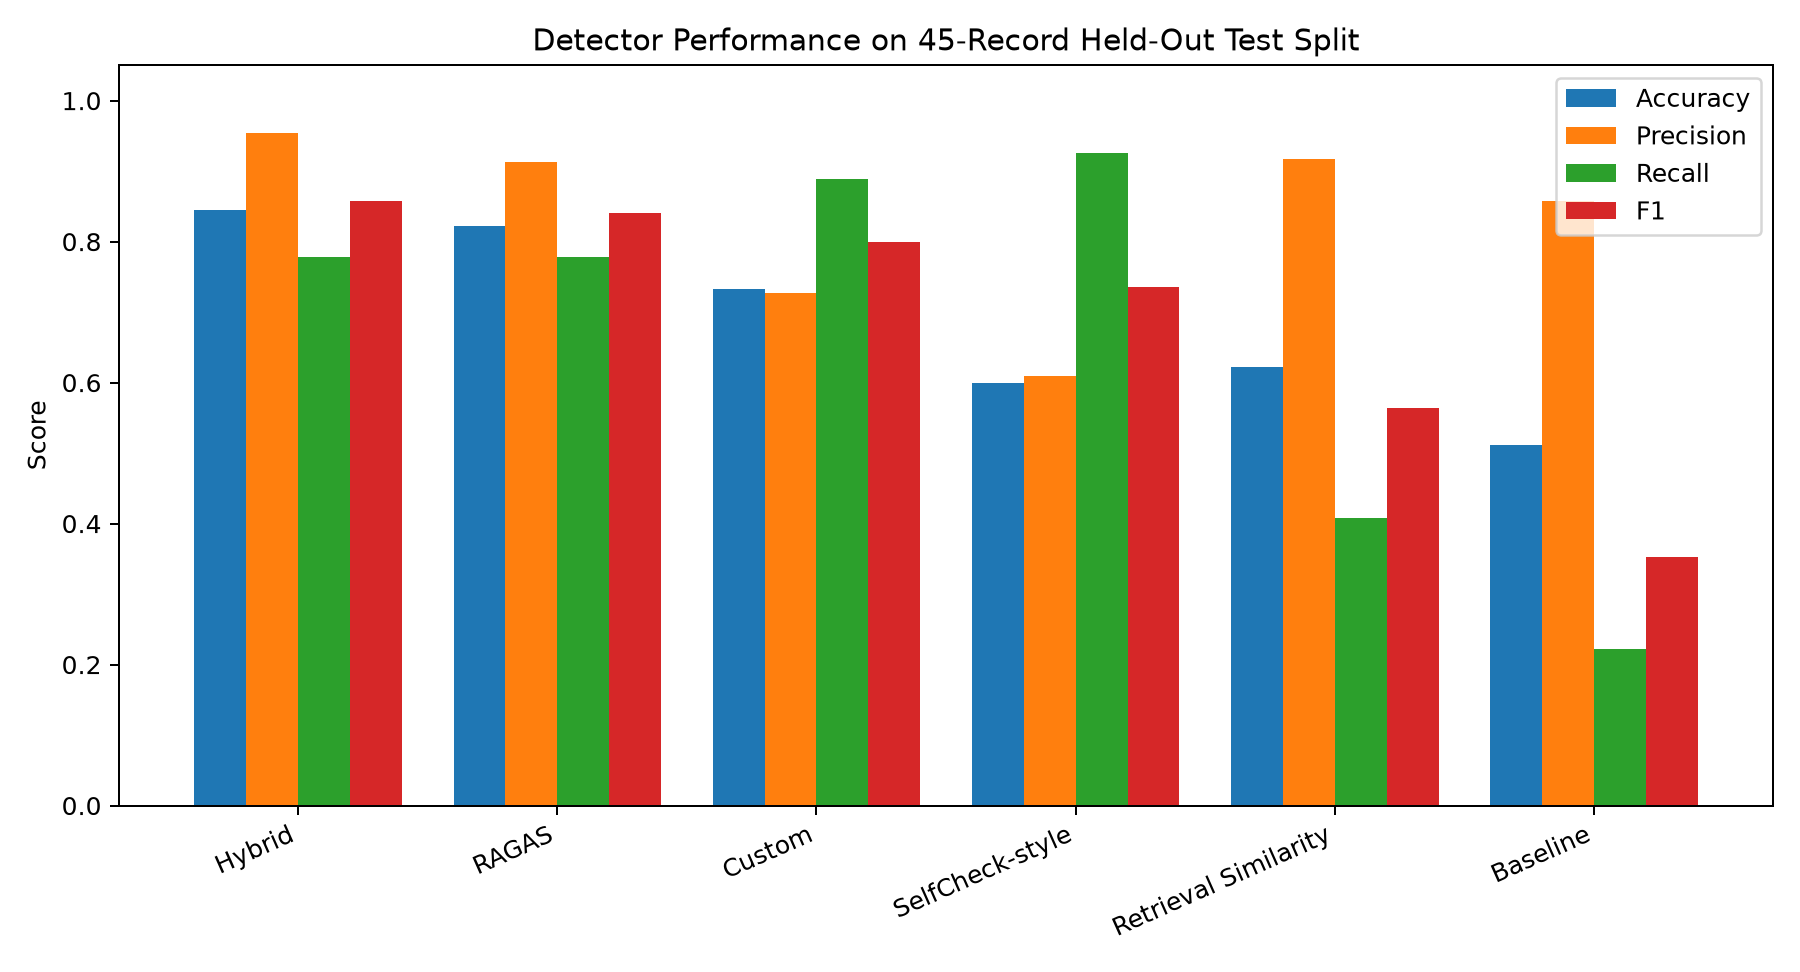
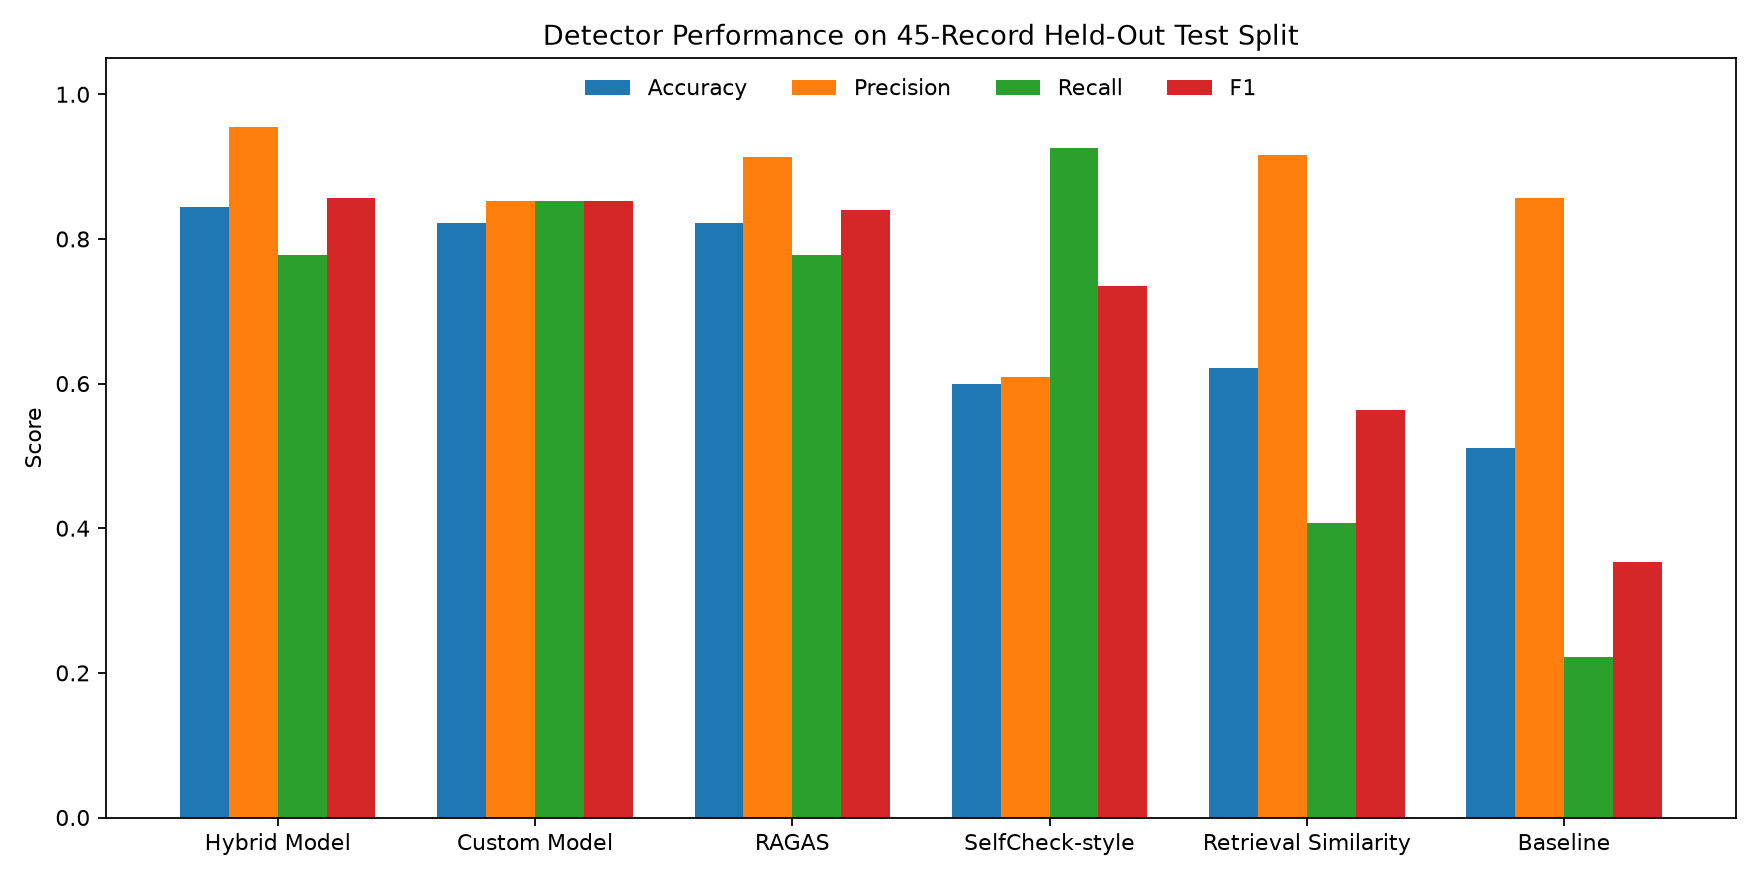
new changes

diff --git a/notebooks/new_300_question_set/300_question_from_each/code/pipeline.py b/notebooks/new_300_question_set/300_question_from_each/code/pipeline.py
@@ -68,6 +68,7 @@ CUSTOM_SUMMARY_PATH = REPORT_DIR / "custom_training_summary.json"
 HYBRID_SUMMARY_PATH = REPORT_DIR / "hybrid_training_summary.json"
 METHOD_METRICS_PATH = REPORT_DIR / "method_metrics.csv"
 METHOD_SUMMARY_PATH = REPORT_DIR / "method_metrics.json"
+HELDOUT_PERFORMANCE_PATH = PLOT_DIR / "heldout_performance_comparison.png"
 STATISTICS_PATH = REPORT_DIR / "statistical_analysis.json"
 ABLATION_CSV_PATH = ABLATION_DIR / "ablation_study.csv"
 ABLATION_JSON_PATH = ABLATION_DIR / "ablation_study.json"
@@ -435,6 +436,24 @@ def plot_performance_bar(metrics_df: pd.DataFrame, output_path: Path) -> None:
     plt.tight_layout()
     plt.savefig(output_path, dpi=160)
     plt.close()
+
+
+def plot_heldout_performance(metrics_df: pd.DataFrame, output_path: Path) -> None:
+    ordered = metrics_df.sort_values("f1", ascending=False)
+    x = np.arange(len(ordered))
+    metrics = ("accuracy", "precision", "recall", "f1")
+    width = 0.19
+    fig, ax = plt.subplots(figsize=(11, 5.5))
+    for position, metric in enumerate(metrics):
+        ax.bar(x + (position - 1.5) * width, ordered[metric], width, label=metric.title())
+    ax.set_xticks(x, [METHOD_DISPLAY_NAMES[method] for method in ordered["method"]])
+    ax.set_ylim(0, 1.05)
+    ax.set_ylabel("Score")
+    ax.set_title(f"Detector Performance on {int(ordered['n'].iloc[0])}-Record Held-Out Test Split")
+    ax.legend(ncol=4, loc="upper center", bbox_to_anchor=(0.5, 1.0), frameon=False)
+    fig.tight_layout()
+    fig.savefig(output_path, dpi=160)
+    plt.close(fig)
 
 
 def plot_score_distribution(master: pd.DataFrame, score_col: str, output_path: Path, title: str) -> None:
@@ -1176,6 +1195,7 @@ def evaluate_all_methods(
 
     metrics_df = pd.DataFrame(metrics_rows).sort_values("f1", ascending=False)
     metrics_df.to_csv(METHOD_METRICS_PATH, index=False)
+    plot_heldout_performance(metrics_df, HELDOUT_PERFORMANCE_PATH)
 
     summary = {
         "n_test_samples": int(len(test_idx)),
